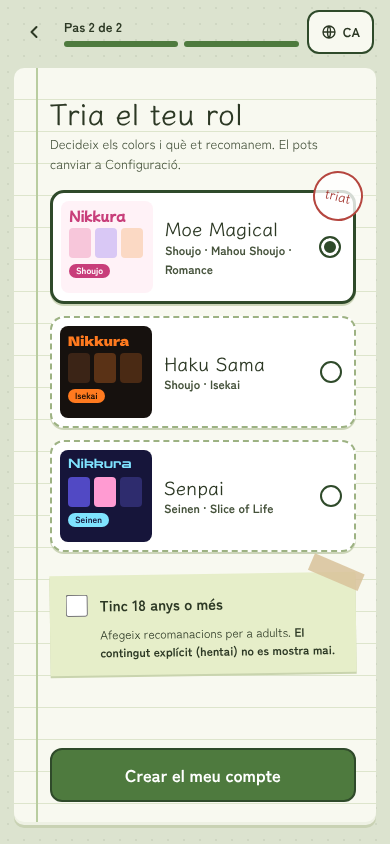
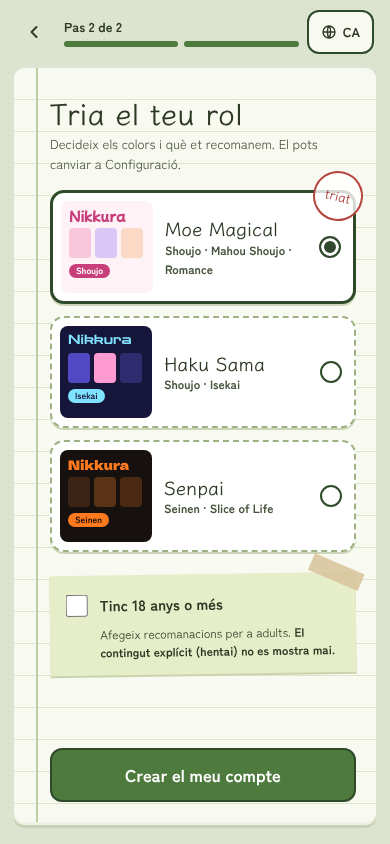
docs: swap the Haku Sama and Senpai palettes
Haku Sama now has the indigo and violet palette with the video rental store page, and Senpai the black and orange dark palette with the status window page. Each role keeps its genres, titles and recommendations. Mockups and screenshots are updated.

Refs #3

Changed region(s): [[0.1538, 0.5237, 0.4, 0.6469], [0.1538, 0.3697, 0.4, 0.4929]]

diff --git a/docs/DESIGN.md b/docs/DESIGN.md
@@ -12,8 +12,8 @@ Two rules shape every screen:
 | Role | Recommendations (Jikan genres) | Palette | Anime page concept | Typefaces |
 | :--- | :--- | :--- | :--- | :--- |
 | 🌸 **Moe Magical** | Shoujo · Mahou Shoujo · Romance | `#FFF2F7` `#C83E7A` `#E9DDFB` `#4A2541` | Y2K desktop: every section is a retro window (`SINOPSI.TXT`, `COMUNITAT.EXE`, `XAT_EN_DIRECTE.EXE`) | Mochiy Pop One · DotGothic16 · M PLUS Rounded 1c |
-| 🔥 **Haku Sama** | Shoujo · Isekai | `#120C09` `#FF7A1F` `#FFB874` `#F6EADB` | Isekai status window: stat bars, guild channel, private grimoire, rune rating | Dela Gothic One · Chakra Petch · Zen Kaku Gothic New |
-| **Senpai** | Seinen · Slice of Life (+ Ecchi if 18+) | `#16153A` `#5149C4` `#7FE3FF` `#FF9BD2` | Video rental store: the anime is a VHS box, the user holds a member card, the chat plays on a CRT TV | Monoton · Zen Dots · M PLUS Rounded 1c |
+| 📼 **Haku Sama** | Shoujo · Isekai | `#16153A` `#5149C4` `#7FE3FF` `#FF9BD2` | Video rental store: the anime is a VHS box, the user holds a member card, the chat plays on a CRT TV | Monoton · Zen Dots · M PLUS Rounded 1c |
+| 🔥 **Senpai** | Seinen · Slice of Life (+ Ecchi if 18+) | `#120C09` `#FF7A1F` `#FFB874` `#F6EADB` | Status window (dark): stat bars, guild channel, private grimoire, rune rating | Dela Gothic One · Chakra Petch · Zen Kaku Gothic New |
 | **Visitor** (no account) | Current season, all genres | `#EEF1E3` `#4E7A3E` `#E7C78E` `#2C3824` | Slice-of-life notebook: polaroid cover, hanko stamps for scores, sticky notes. Read-only, with invitations to sign up | Kiwi Maru · Klee One · Zen Kaku Gothic New |
 
 The palette is applied with CSS custom properties switched by a `data-role` attribute on `<body>` (`moe`, `haku`, `senpai`, `guest`). Components only use tokens, never raw colours.
